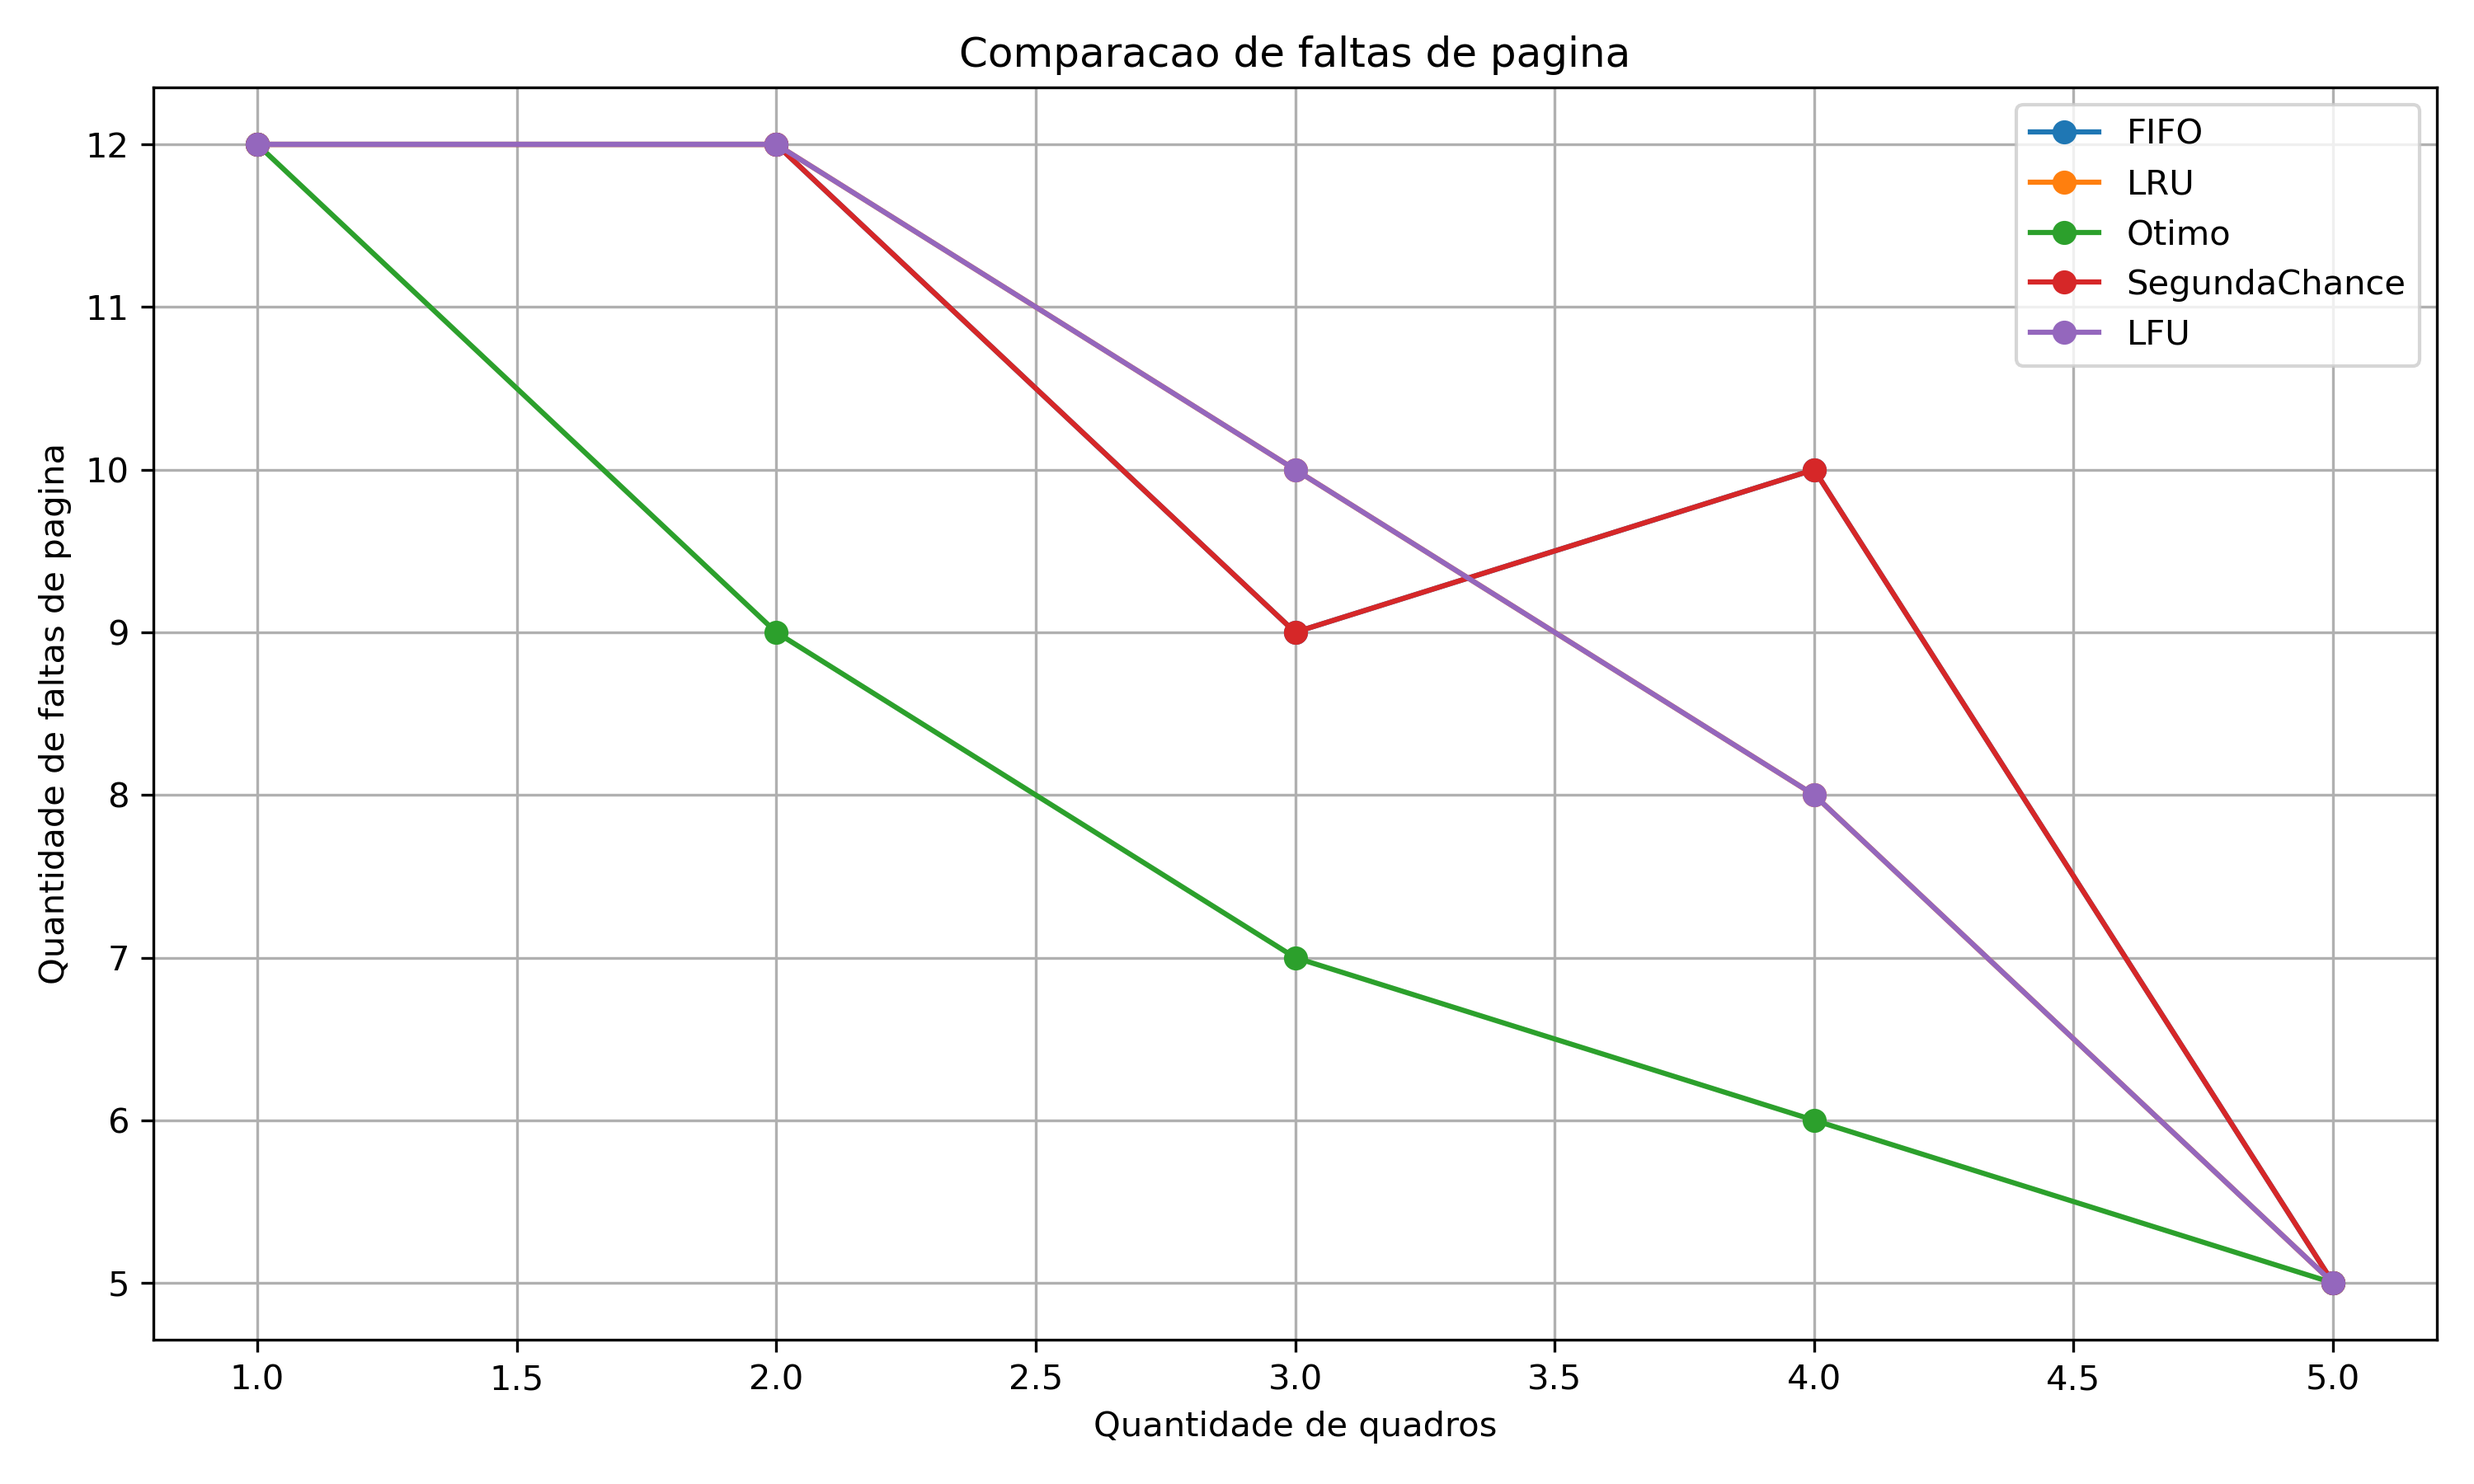
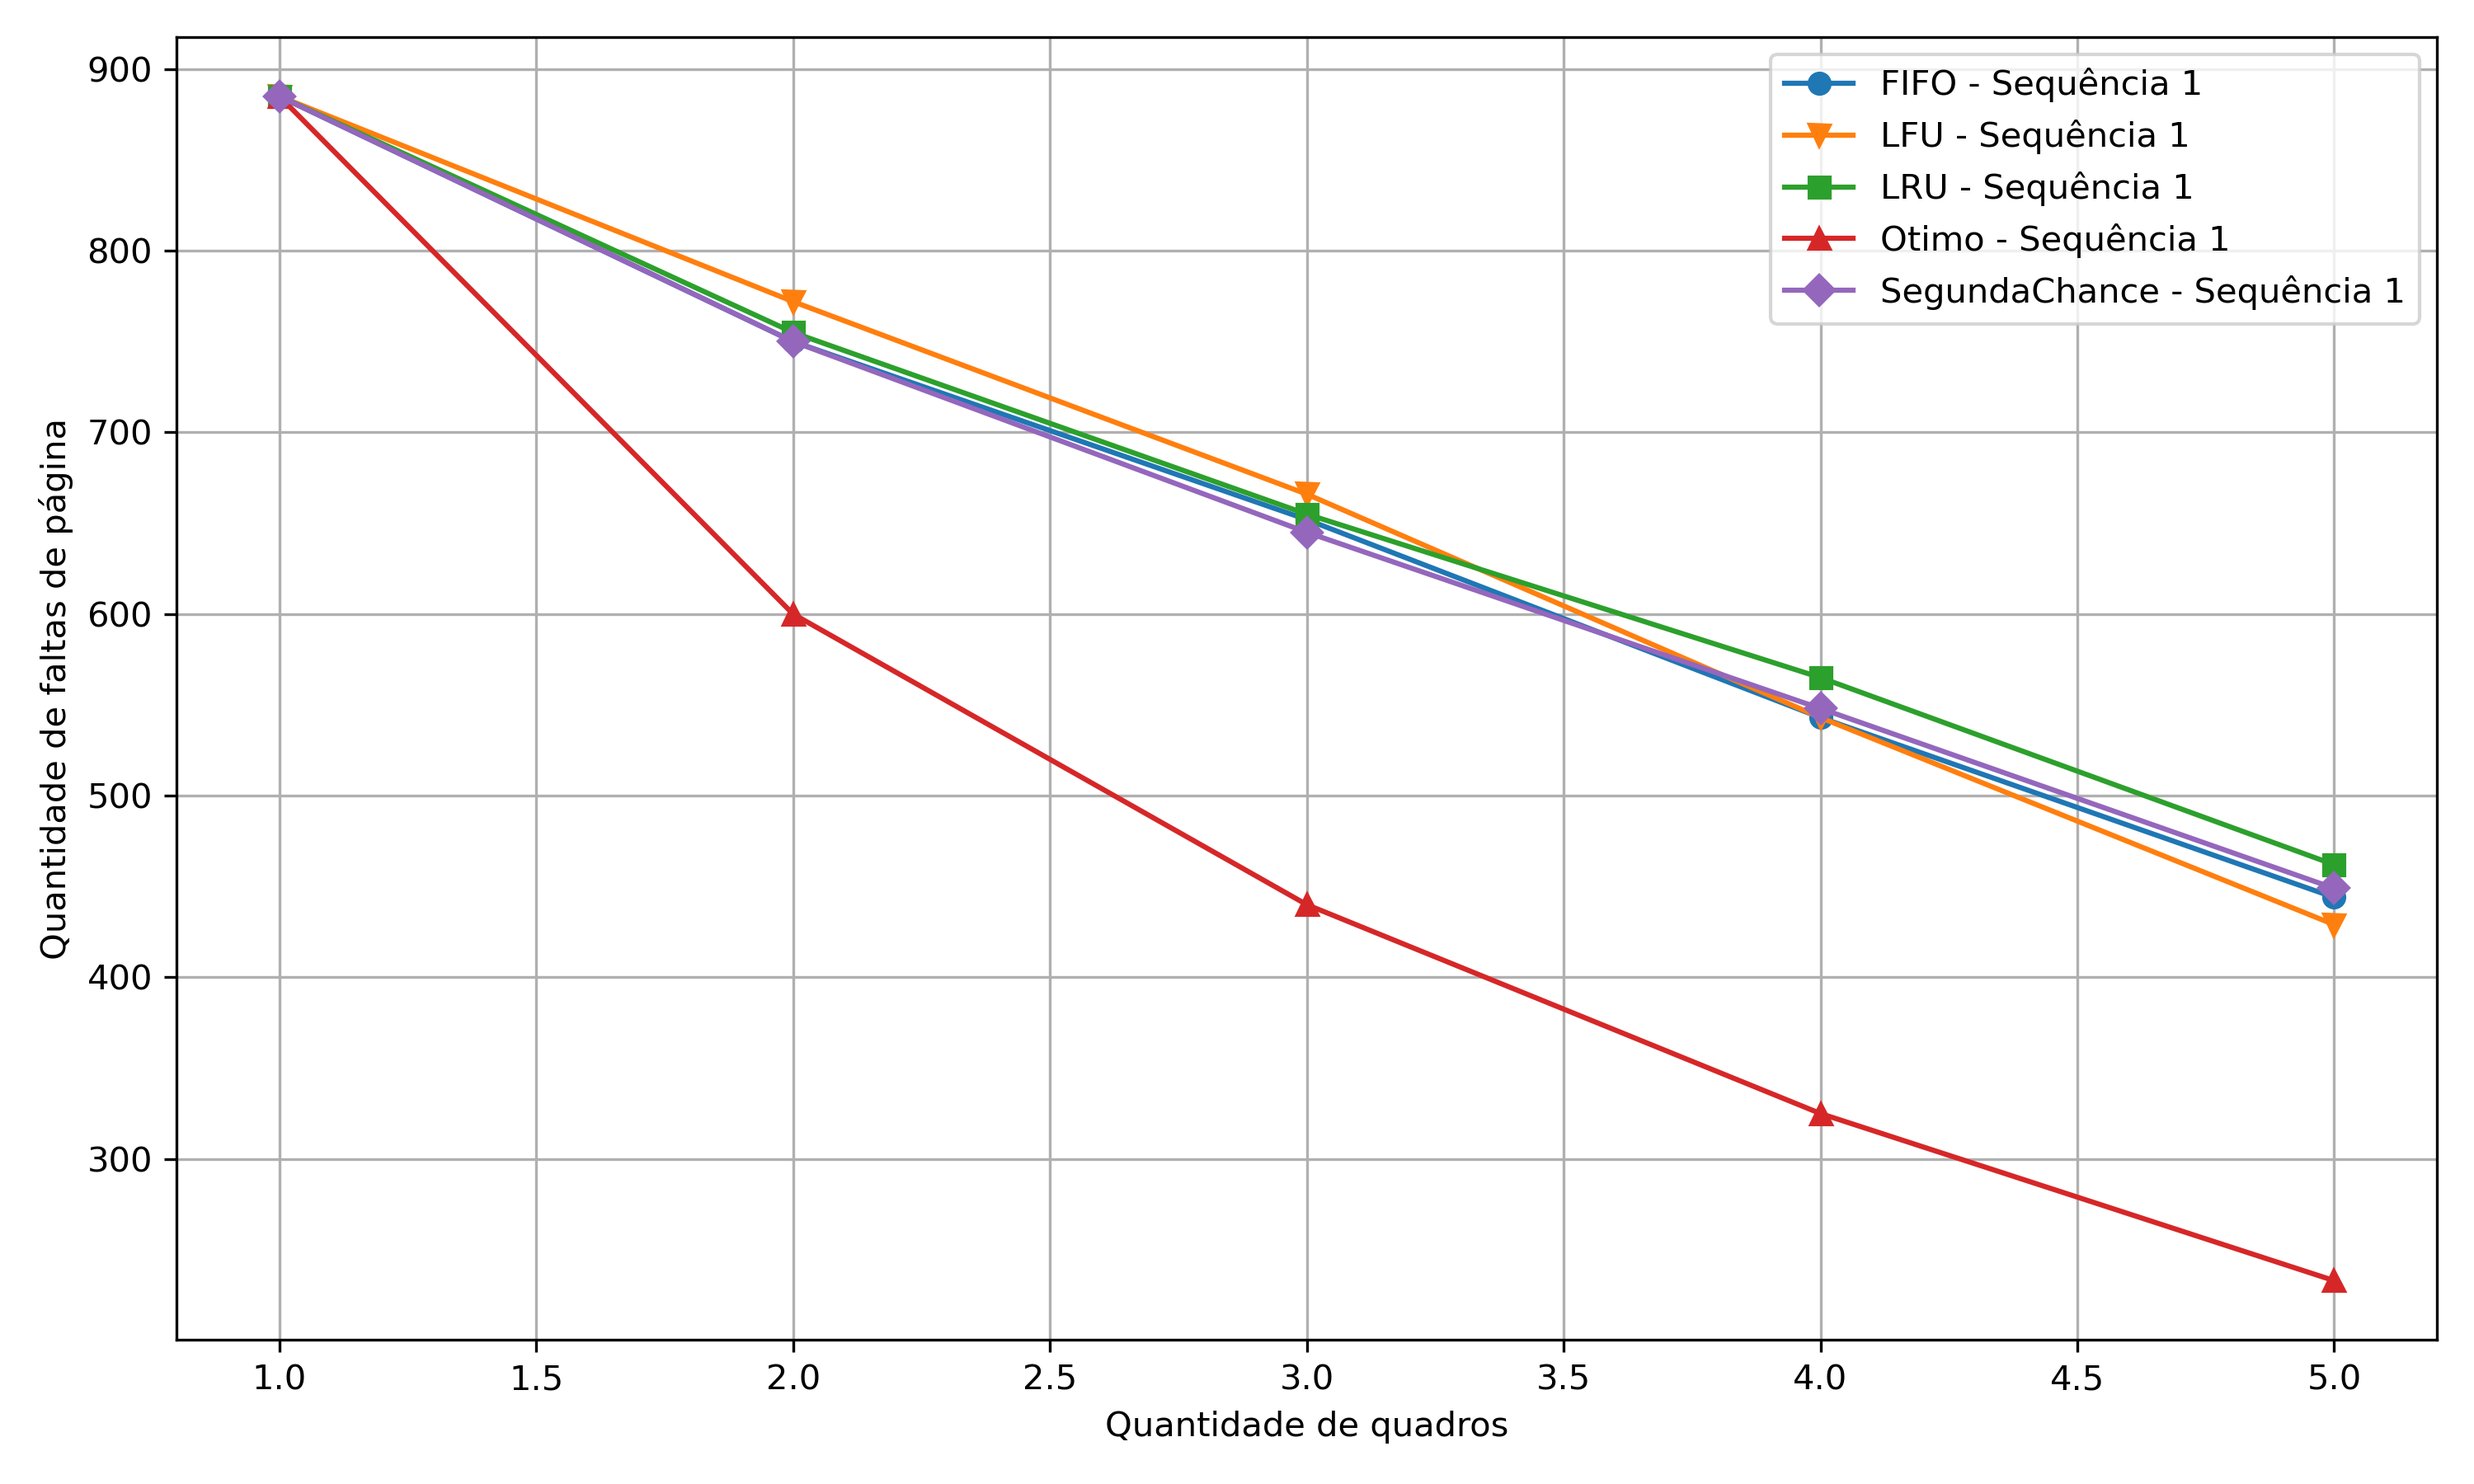
correcoes simples

diff --git a/src/main.c b/src/main.c
@@ -3,6 +3,8 @@
 #include <stdio.h>
 #include <stdlib.h>
 #include <string.h>
+#include <strings.h>
+#include <unistd.h>
 #include "leitor.h"
 #include "traco.h"
 #include "algoritmos.h"
@@ -17,22 +19,39 @@ int main(int argc, char *argv[]) {
     int max_informado = 0;
     int entrada_manual = 0;
 
-    for (int i = 1; i < argc; i++) {
-        if (strcmp(argv[i], "-v") == 0) { //verbose
+    int opcao;
+
+while ((opcao = getopt(argc, argv, "vf:mq:Q:a:")) != -1) {
+    switch (opcao) {
+        case 'v':
             verbose = 1;
-        } else if (strcmp(argv[i], "-f") == 0) { //arquivo
-            arquivo = argv[++i];
-        } else if (strcmp(argv[i], "-m") == 0) { //entrada manual
+            break;
+
+        case 'f':
+            arquivo = optarg;
+            break;
+
+        case 'm':
             entrada_manual = 1;
-        } else if (strcmp(argv[i], "-q") == 0) { //min_quadros
-            q_min = atoi(argv[++i]);
-        } else if (strcmp(argv[i], "-Q") == 0) { //max_quadros
-            q_max = atoi(argv[++i]);
+            break;
+
+        case 'q':
+            q_min = atoi(optarg);
+            break;
+
+        case 'Q':
+            q_max = atoi(optarg);
             max_informado = 1;
-        } else if (strcmp(argv[i], "-a") == 0) { //algoritmo
-            algoritmo = argv[++i];
-        }
+            break;
+
+        case 'a':
+            algoritmo = optarg;
+            break;
+
+        default:
+            return 1;
     }
+}
 
     if (max_informado == 0) {
         q_max = q_min;
@@ -86,8 +105,8 @@ int main(int argc, char *argv[]) {
 
     for (size_t a = 0; a < total_algs; a++) {
 
-        if (strcmp(algoritmo, "Todos") != 0 &&
-            strcmp(algoritmo, ALGS[a].nome) != 0) {
+        if (strcasecmp(algoritmo, "Todos") != 0 &&
+            strcasecmp(algoritmo, ALGS[a].nome) != 0) {
             continue;
         }
 

diff --git a/analise.py b/analise.py
@@ -40,7 +40,6 @@ def main():
             label=f"{algoritmo} - Sequência {sequencia}",
         )
 
-    plt.title("Comparação de faltas de página por sequência")
     plt.xlabel("Quantidade de quadros")
     plt.ylabel("Quantidade de faltas de página")
     plt.grid(True)
@@ -48,7 +47,6 @@ def main():
     plt.tight_layout()
 
     plt.savefig(caminho_grafico, dpi=300)
-    plt.show()
 
 
 if __name__ == "__main__":
